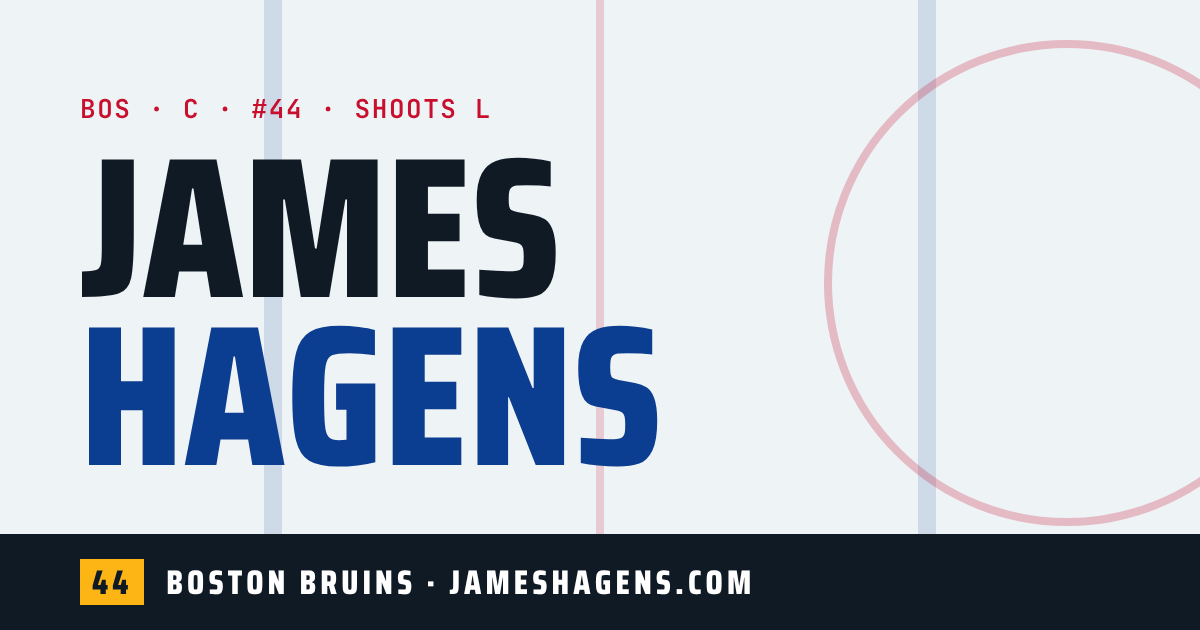
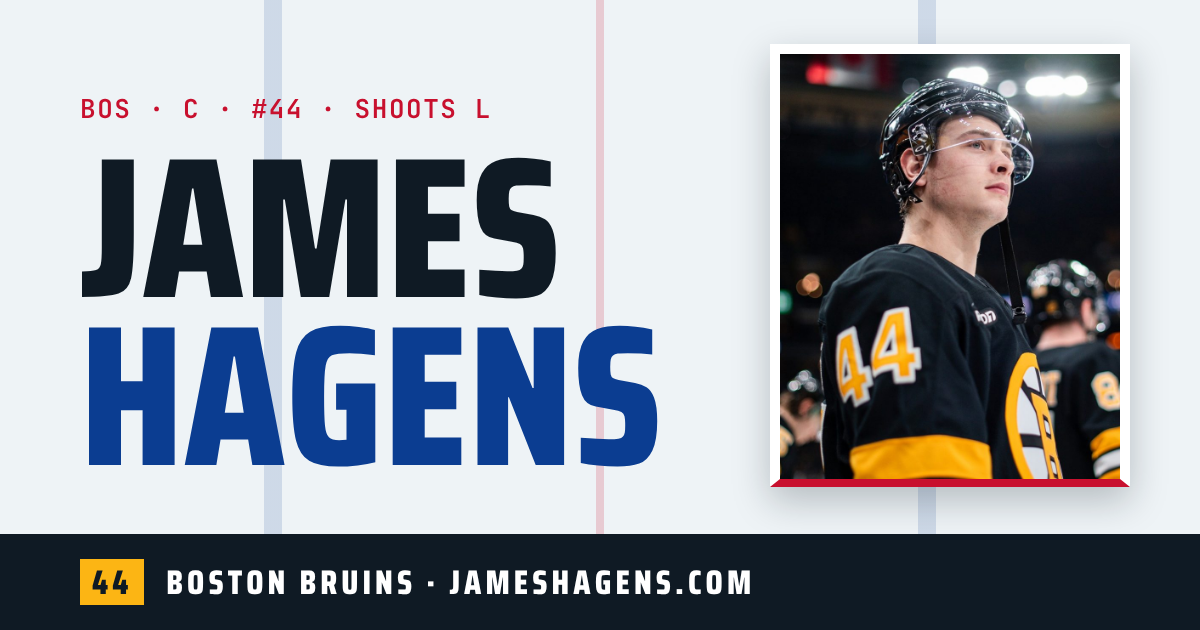
Add James's photo to the hero, share image and structured data
Claude-Session: https://claude.ai/code/session_01EwudJjaZ3KXZM19jizxDeE

Changed region(s): [[0.6167, 0.0603, 1.0, 0.8444], [0.9867, 0.754, 1.0, 0.7841]]

diff --git a/site/index.html b/site/index.html
@@ -65,7 +65,7 @@
       "givenName": "James",
       "familyName": "Hagens",
       "url": "https://jameshagens.com/",
-      "image": "https://jameshagens.com/og-image.png",
+      "image": "https://jameshagens.com/img/james-hagens.jpg",
       "description": "American professional ice hockey center for the Boston Bruins of the NHL, selected seventh overall in the 2025 NHL Draft.",
       "jobTitle": "Professional ice hockey player",
       "birthDate": "2006-11-03",
@@ -322,7 +322,7 @@ footer a{color:var(--white)}
         <a class="btn ghost" href="#stats">Live stats</a>
       </div>
       </div>
-
+      <figure class="hero-photo"><img src="/img/james-hagens.jpg" alt="James Hagens, center for the Boston Bruins" width="800" height="1000" fetchpriority="high"><figcaption>Photo: @jameshagens_4</figcaption></figure>
     </div>
   </div>
 

diff --git a/src/index.template.html b/src/index.template.html
@@ -65,7 +65,7 @@
       "givenName": "James",
       "familyName": "Hagens",
       "url": "{{SITE_URL}}/",
-      "image": "{{SITE_URL}}/og-image.png",
+      "image": "{{PERSON_IMAGE}}",
       "description": "American professional ice hockey center for the Boston Bruins of the NHL, selected seventh overall in the 2025 NHL Draft.",
       "jobTitle": "Professional ice hockey player",
       "birthDate": "2006-11-03",
